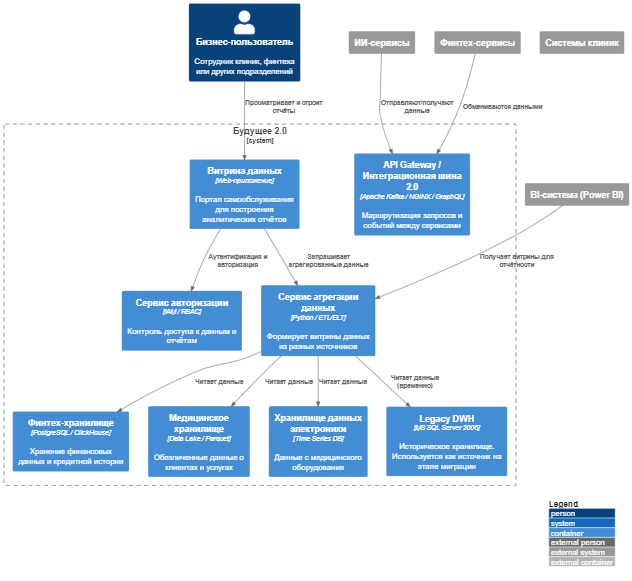
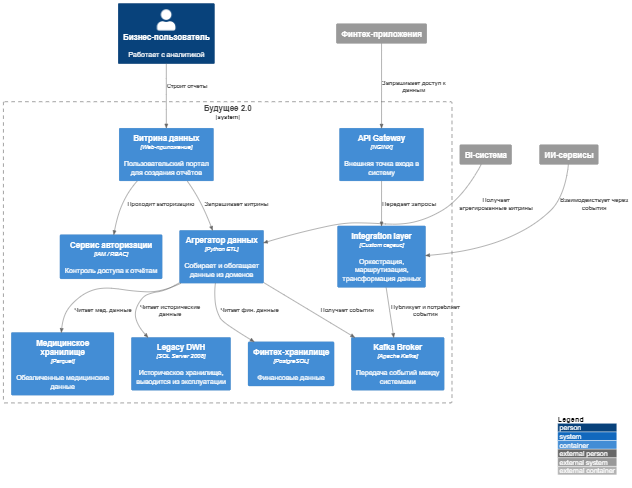
refactor: обновлены диаграммы C4 и DFD, добавлено пояснение в README

diff --git a/README.md b/README.md
@@ -34,13 +34,39 @@
 
 ![C4 Diagram](Task1/C4.png)
 
+
+### 🔍 Пояснительная записка к C4-диаграмме: роль Integration Layer и отказ от DWH
+
+Архитектура в C4-модели построена на принципах слабосвязанной доменной интеграции, и ключевую роль в этом играет `Integration Layer`:
+
+#### 🧱 Integration Layer — основной элемент замены DWH:
+- Это отдельный модуль/сервис, который выполняет функции интеграционной шины без использования тяжёлых ESB.
+- Он принимает запросы через API Gateway и события из Kafka, обрабатывает их (трансформация, маршрутизация) и направляет в нужный домен или агрегатор.
+
+📌 Благодаря этому:
+- Новые бизнесы (например, фармацевтика, заводы, логистика) можно включать в архитектуру через Kafka или API, **не изменяя бизнес-логику в DWH**.
+- Он становится точкой интеграции между новыми системами и аналитической платформой.
+
+#### 🔄 Почему это заменяет логику в DWH:
+
+| В DWH раньше                        | Теперь в Integration Layer / Aggregator           |
+|------------------------------------|---------------------------------------------------|
+| SQL-процедуры с бизнес-логикой     | Преобразования в коде (Python, dbt, Kafka-процессы) |
+| Сложные зависимости таблиц         | Явные API-контракты между сервисами              |
+| Централизованный расчёт показателей| Распределённая обработка и агрегация данных      |
+
+#### 🔧 Связанные компоненты:
+
+- `Kafka Broker` — транспортный уровень для событий, обеспечивает масштабируемую и гибкую передачу данных между системами.
+- `Data Aggregator (через Kafka)` — потребляет события от разных доменов и формирует аналитические витрины.
+- `Legacy DWH (доступен через Data Aggregator)` — временный источник исторических данных, задействуется в процессе агрегации, но не подключён напрямую к интеграционному слою.
+
+
+
 **Файлы:**
 - [`C4.puml`](Task1/C4.puml)
 - [`problems_architecture.md`](Task1/problems_architecture.md)
 - [`problems_moscow_prioritization.md`](Task1/problems_moscow_prioritization.md)
-
----
-
 ## ✅ Задание 2: Домены и потоки данных
 
 **Что сделано:**
